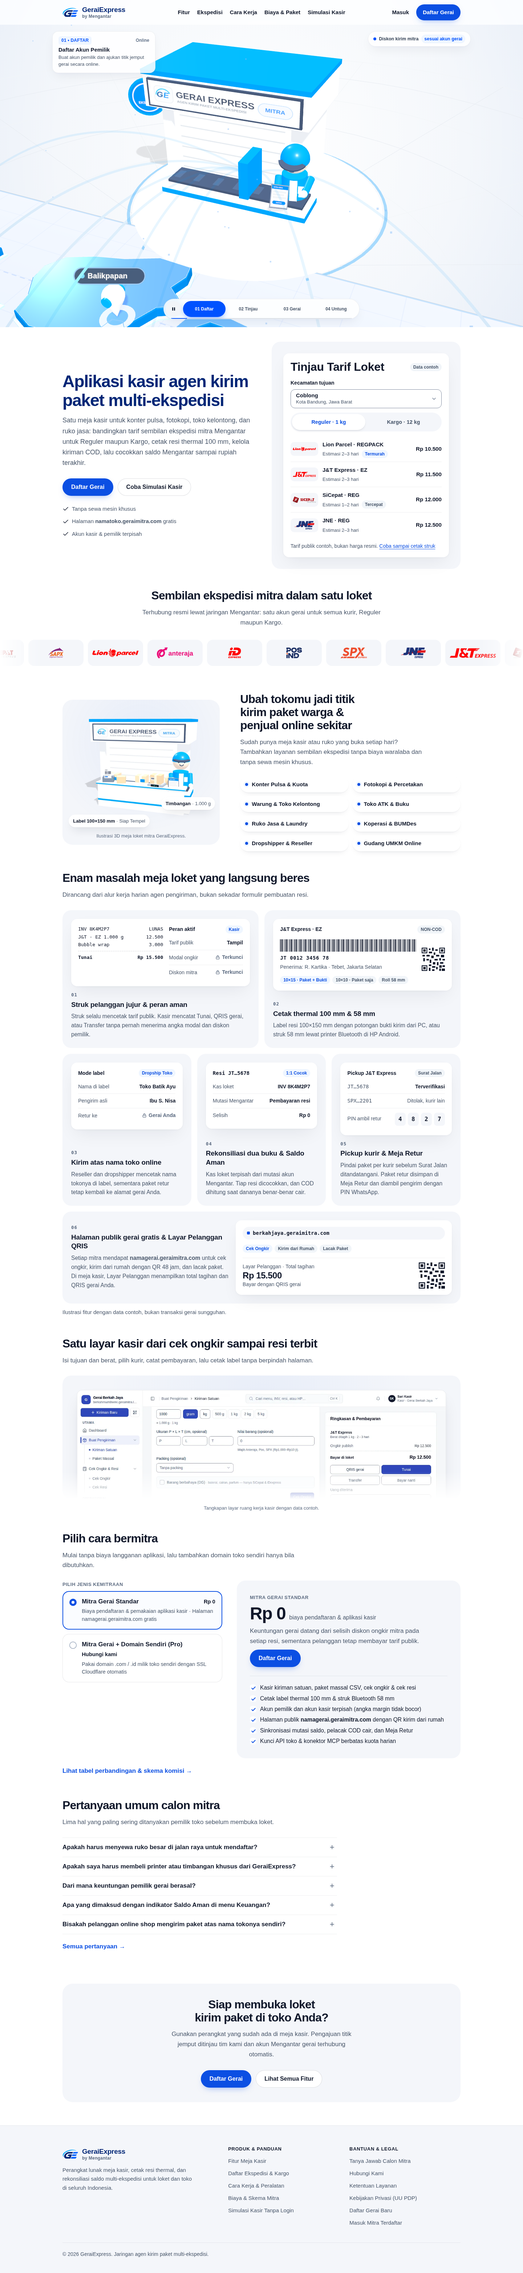
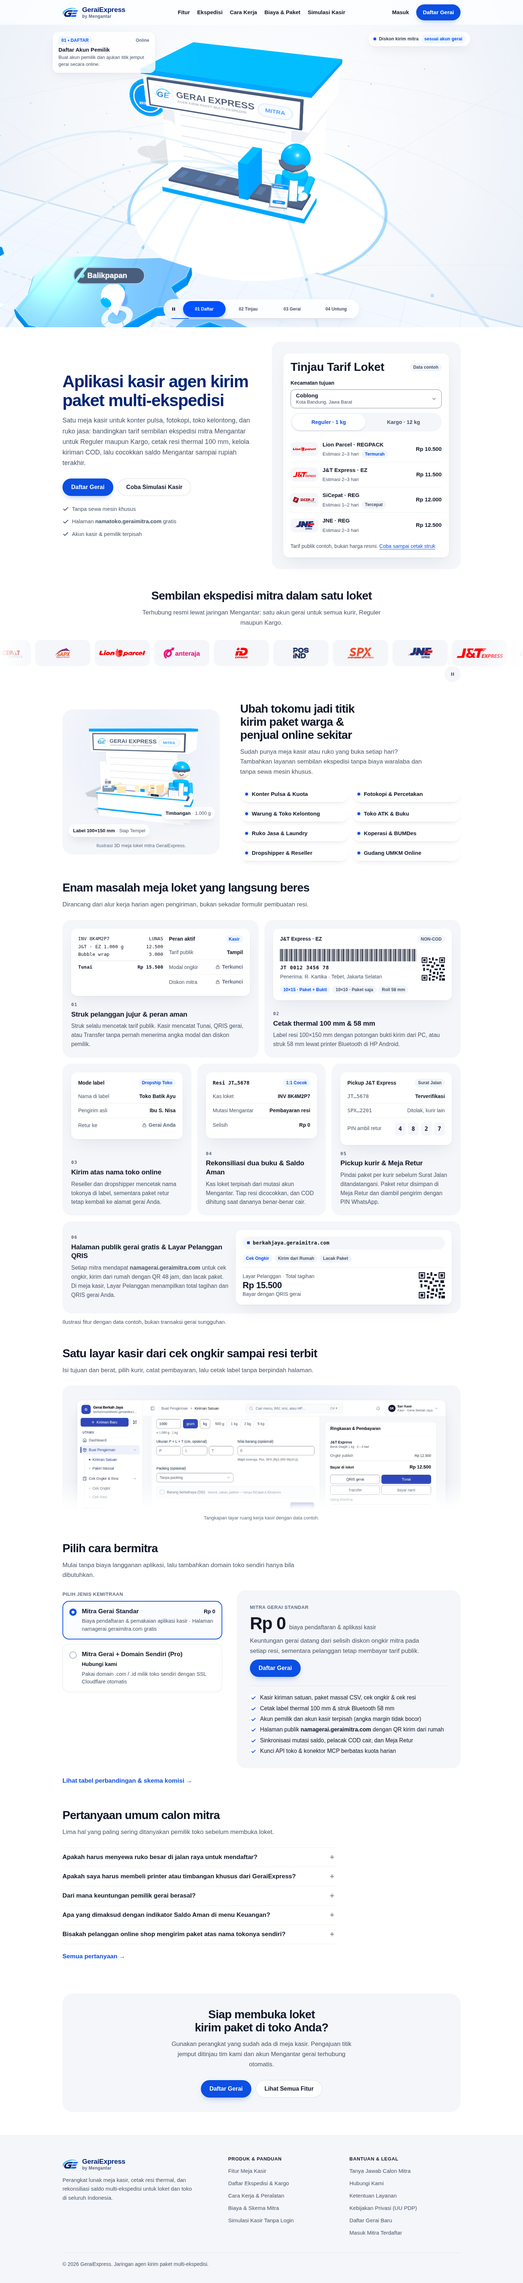
fix(brand,tooling): DEC-249 GPT-6.2 Sol R1 findings (pruner safety, marquee pause and width, finance wording)
- clean-e2e-state: only real, idle state-e2e-* directories go: lstat type guard (files and symlinks never), keep
  and active paths compared resolved, age from the newest file in the whole tree, live --persist-to folders from
  /proc protected (none where /proc is missing); Playwright skips the automatic prune under GX_REUSE_SERVER.
  Unit tests in scripts/dev/clean-e2e-state.test.mjs.
- Marquee: a 44px keyboard pause button holds data-paused until pressed again (WCAG 2.2.2), hidden under reduced
  motion; the marquee is capped at one track's width (1,476px) so wide screens never show an empty tail.
- /fitur: Saldo Aman is described as computed from the last sync, and differences as visible per resi.

Focused checks (fast protocol): check:fast, unit 6/6, worker test/brand 22/22, seo 10/10, e2e brand desktop
14/0/0; mutations D249R1-M1..M6 red. Disposition: docs/review/dec-249/DISPOSITION.md.

diff --git a/apps/worker/src/brand/pages.ts b/apps/worker/src/brand/pages.ts
@@ -124,6 +124,12 @@ export const HOME_SCRIPT = `<script defer src="/three.min.js"></script><script d
   new IntersectionObserver(function(es){es.forEach(function(x){g.classList.toggle("is-playing",x.isIntersecting)})},{threshold:.15}).observe(g);
 })();
 (function(){
+  // The courier marquee's pause button (WCAG 2.2.2): the paused state holds until pressed again, whatever has focus.
+  var b=document.querySelector(".mq-pause"),m=document.querySelector(".marquee");
+  if(!b||!m)return;
+  b.addEventListener("click",function(){var on=b.getAttribute("aria-pressed")!=="true";b.setAttribute("aria-pressed",on?"true":"false");if(on)m.setAttribute("data-paused","");else m.removeAttribute("data-paused")});
+})();
+(function(){
   // Raka's parcel, label and scan beam move only while the stage is on screen; still under reduced motion (DEC-249).
   var r=document.querySelector("[data-raka]");
   if(!r||!("IntersectionObserver" in window)||matchMedia("(prefers-reduced-motion: reduce)").matches)return;
@@ -205,6 +211,7 @@ export function renderHome(app: string): string {
 <ul class="mq-list" aria-label="Sembilan ekspedisi mitra Mengantar">${Object.keys(COURIERS).map((k) => `<li class="pbadge">${courierImg(k, 28)}</li>`).join("")}</ul>
 <ul class="mq-list" aria-hidden="true">${Object.keys(COURIERS).map((k) => `<li class="pbadge">${courierImg(k, 28, true)}</li>`).join("")}</ul>
 </div></div>
+<div class="wrap mq-ctl"><button type="button" class="mq-pause" aria-pressed="false" aria-label="Jeda animasi daftar ekspedisi"><svg width="12" height="12" viewBox="0 0 12 12" fill="currentColor" aria-hidden="true"><rect x="2" y="1.5" width="3" height="9" rx="1"/><rect x="7" y="1.5" width="3" height="9" rx="1"/></svg></button></div>
 </section>
 
 <section class="sec" aria-labelledby="toko-title"><div class="wrap raka-grid">
@@ -283,7 +290,7 @@ ${closing(app, "/fitur", "Lihat Semua Fitur")}`
 const FITUR_SHOWCASE = `<section class="sec" aria-labelledby="satu-layar-title"><div class="wrap show-grid">
 <div>
 <h2 id="satu-layar-title">Lihat jelas untung loket, saldo Mengantar, dan status tiap resi dalam satu layar</h2>
-<p class="sub">Setiap resi tunai, QRIS, maupun COD tercatat otomatis antara laci kasir dan mutasi akun seller Mengantar. Anda tahu persis berapa Saldo Aman yang siap ditarik dan paket mana yang menunggu dijemput kurir.</p>
+<p class="sub">Setiap resi tunai, QRIS, maupun COD tercatat otomatis antara laci kasir dan mutasi akun seller Mengantar. Anda melihat perhitungan Saldo Aman dari sinkronisasi terakhir setelah cadangan ongkir retur, serta paket yang menunggu dijemput kurir.</p>
 <ul class="chk">
 <li>${IC.check}<span>Kasir melihat tarif publik; modal dan margin hanya di akun Pemilik</span></li>
 <li>${IC.check}<span>Rekonsiliasi per resi antara kas loket dan mutasi Mengantar</span></li>
@@ -310,7 +317,7 @@ const FITUR_SHOWCASE = `<section class="sec" aria-labelledby="satu-layar-title">
 </div></section>
 
 <section class="sec" aria-labelledby="bukti-title"><div class="wrap">
-<div class="shead"><h2 id="bukti-title">Uang laci kasir dan saldo ekspedisi tidak lagi selisih di akhir minggu</h2><p class="sub">Dua kebiasaan loket yang paling sering memakan waktu kini dikerjakan sistem.</p></div>
+<div class="shead"><h2 id="bukti-title">Selisih antara laci kasir dan mutasi ekspedisi langsung terlihat per resi</h2><p class="sub">Dua kebiasaan loket yang paling sering memakan waktu kini dikerjakan sistem.</p></div>
 <div class="proof">
 <div class="tile"><span class="idx">01</span><h3>Dari catatan campur ke rekonsiliasi 1:1 per resi</h3><p>Catatan manual sering menyisakan selisih ongkir dan potongan COD yang belum cair. GeraiExpress mencocokkan kas loket dengan mutasi Mengantar untuk setiap nomor resi.</p>
 <div class="float rb" aria-label="Contoh perbandingan catatan manual dan rekonsiliasi per resi (data contoh)">

diff --git a/apps/worker/test/brand/brand.test.ts b/apps/worker/test/brand/brand.test.ts
@@ -245,8 +245,12 @@ describe("brand site DEC-247", () => {
     ])
     // Marquee: CSS-only, pauses on hover/focus, a static wrap under reduced motion.
     const css = /<style>([\s\S]*?)<\/style>/.exec(h)![1]!
-    expect(css).toContain(".marquee:hover .mq-track,.marquee:focus-within .mq-track{animation-play-state:paused}")
-    expect(css).toContain("@media(prefers-reduced-motion:reduce){.marquee{-webkit-mask-image:none;mask-image:none;padding:0}.mq-track{animation:none;width:auto;display:block}")
+    expect(css).toContain(".marquee:hover .mq-track,.marquee:focus-within .mq-track,.marquee[data-paused] .mq-track{animation-play-state:paused}")
+    expect(css).toContain("@media(prefers-reduced-motion:reduce){.mq-ctl{display:none}.marquee{-webkit-mask-image:none;mask-image:none;padding:0}.mq-track{animation:none;width:auto;display:block}")
+    // Sol R1: never wider than one track (no empty tail on wide screens), and a real pause control (WCAG 2.2.2).
+    expect(css).toContain(".marquee{max-width:1476px;margin:0 auto;overflow:hidden;")
+    expect(h).toContain('<button type="button" class="mq-pause" aria-pressed="false" aria-label="Jeda animasi daftar ekspedisi">')
+    expect(h).toContain('if(on)m.setAttribute("data-paused","");else m.removeAttribute("data-paused")')
     expect(css).toContain("mask-image:linear-gradient(90deg,transparent,#000 8%,#000 92%,transparent)")
     // Raka: a labelled illustration, motion only on screen and never under reduced motion.
     const raka = h.slice(h.indexOf('<section class="sec" aria-labelledby="toko-title">'), h.indexOf("</section>", h.indexOf('aria-labelledby="toko-title"')))
@@ -396,6 +400,10 @@ describe("brand site DEC-247", () => {
     for (const moved of ['<figure class="layers">', '<div class="proof">', '<table class="cmp">', 'aria-labelledby="layanan-title"', 'aria-labelledby="alat-title"']) expect(home, moved).not.toContain(moved)
     expect(h.indexOf('aria-labelledby="satu-layar-title"')).toBeGreaterThan(h.indexOf('<section class="phead"'))
     expect(h.indexOf('aria-labelledby="bukti-title"')).toBeLessThan(h.indexOf('<section class="sec tight" aria-label="Enam modul GeraiExpress">'))
+    // Sol R1 (R1-5): honest finance wording — a computed Saldo Aman from the last sync, differences visible per resi.
+    expect(h).toContain("Anda melihat perhitungan Saldo Aman dari sinkronisasi terakhir setelah cadangan ongkir retur, serta paket yang menunggu dijemput kurir.")
+    expect(h).toContain('<h2 id="bukti-title">Selisih antara laci kasir dan mutasi ekspedisi langsung terlihat per resi</h2>')
+    expect(h).not.toMatch(/tahu persis berapa Saldo Aman|tidak lagi selisih/)
     // 1. Layered product UI: faded KPI layer behind a floating table card, synthetic data labelled as such.
     expect(h).toContain('<figure class="layers">')
     expect(h).toMatch(/<div class="layer-back" aria-hidden="true">[\s\S]*Saldo Aman[\s\S]*<div class="spark">/)

diff --git a/apps/worker/src/brand/styles.ts b/apps/worker/src/brand/styles.ts
@@ -204,13 +204,16 @@ ul.rates li:last-child{border-bottom:0}
 @media(min-width:1024px){.pgrid{grid-template-columns:repeat(9,minmax(0,1fr))}}
 .pgrid-gap{margin-bottom:56px}
 /* DEC-249 home: infinite courier marquee (pauses on hover/focus, static wrap under reduced motion) */
-.marquee{overflow:hidden;padding:6px 0 18px;-webkit-mask-image:linear-gradient(90deg,transparent,#000 8%,#000 92%,transparent);mask-image:linear-gradient(90deg,transparent,#000 8%,#000 92%,transparent)}
+.marquee{max-width:1476px;margin:0 auto;overflow:hidden;padding:6px 0 18px;-webkit-mask-image:linear-gradient(90deg,transparent,#000 8%,#000 92%,transparent);mask-image:linear-gradient(90deg,transparent,#000 8%,#000 92%,transparent)}
 .mq-track{display:flex;width:max-content;animation:gx-mq 42s linear infinite}
-.marquee:hover .mq-track,.marquee:focus-within .mq-track{animation-play-state:paused}
+.marquee:hover .mq-track,.marquee:focus-within .mq-track,.marquee[data-paused] .mq-track{animation-play-state:paused}
+.mq-ctl{display:flex;justify-content:flex-end;margin-top:-18px}
+.mq-pause{display:inline-grid;place-items:center;width:44px;height:44px;border:0;border-radius:999px;background:var(--tile);color:var(--slate);cursor:pointer}
+.mq-pause:hover{color:var(--ink);background:#EBEEF4}.mq-pause[aria-pressed=true]{color:var(--action);background:var(--tint)}
 .mq-list{display:flex;gap:12px;margin:0;padding:0 12px 0 0;list-style:none}
 .mq-list .pbadge{width:152px;flex-shrink:0}
 @keyframes gx-mq{to{transform:translateX(-50%)}}
-@media(prefers-reduced-motion:reduce){.marquee{-webkit-mask-image:none;mask-image:none;padding:0}.mq-track{animation:none;width:auto;display:block}.mq-list{flex-wrap:wrap;justify-content:center;padding:0 16px}.mq-list[aria-hidden]{display:none}}
+@media(prefers-reduced-motion:reduce){.mq-ctl{display:none}.marquee{-webkit-mask-image:none;mask-image:none;padding:0}.mq-track{animation:none;width:auto;display:block}.mq-list{flex-wrap:wrap;justify-content:center;padding:0 16px}.mq-list[aria-hidden]{display:none}}
 /* DEC-249 home: Raka's 3D counter (render of the hero's own rig) on a porcelain stage + floating UI pills */
 .raka-grid{display:grid;gap:32px;align-items:center}@media(min-width:900px){.raka-grid{grid-template-columns:minmax(0,5fr) minmax(0,7fr);gap:56px}}
 .raka-stage{position:relative;margin:0;background:radial-gradient(circle at 50% 30%,rgba(11,79,227,.06),transparent 70%),var(--tile);border-radius:28px;padding:20px 16px 14px;min-width:0}

diff --git a/e2e/brand.spec.ts b/e2e/brand.spec.ts
@@ -484,6 +484,28 @@ test("Brand DEC-249: beranda ramping, marquee kurir, Raka, dan /fitur diperkaya"
   await page.locator(".marquee").hover()
   expect(await track.evaluate((el) => getComputedStyle(el).animationPlayState)).toBe("paused")
   await expect(page.locator('.mq-list[aria-hidden="true"] img[alt=""]')).toHaveCount(9)
+  // Sol R1: the pause button holds the marquee still (keyboard), whatever has focus afterwards; pressed again it runs.
+  await page.mouse.move(2, 2)
+  const pause = page.getByRole("button", { name: "Jeda animasi daftar ekspedisi" })
+  await pause.focus()
+  await page.keyboard.press("Enter")
+  await expect(pause).toHaveAttribute("aria-pressed", "true")
+  await page.keyboard.press("Tab")
+  await expect(pause).not.toBeFocused()
+  expect(await track.evaluate((el) => getComputedStyle(el).animationPlayState)).toBe("paused")
+  await pause.focus()
+  await page.keyboard.press(" ")
+  await expect(pause).toHaveAttribute("aria-pressed", "false")
+  await page.locator("h1").focus().catch(() => {})
+  await page.mouse.move(2, 2)
+  expect(await track.evaluate((el) => getComputedStyle(el).animationPlayState)).toBe("running")
+  if (info.project.name === "desktop-1280") {
+    // At 1920 the marquee is never wider than one track, so the loop never shows an empty tail.
+    await page.setViewportSize({ width: 1920, height: 900 })
+    const w = await page.evaluate(() => ({ box: document.querySelector(".marquee")!.getBoundingClientRect().width, list: document.querySelector(".mq-list")!.getBoundingClientRect().width }))
+    expect(w.box).toBeLessThanOrEqual(w.list)
+    await page.setViewportSize({ width: 1440, height: 900 })
+  }
   const raka = page.locator("[data-raka]")
   await raka.scrollIntoViewIfNeeded()
   await expect(raka).toHaveClass(/is-playing/)

diff --git a/playwright.config.ts b/playwright.config.ts
@@ -6,8 +6,9 @@ const port = Number(process.env.GX_E2E_PORT ?? 8787)
 // Fresh local state per run (rate limits and data from an earlier run must not leak into this one).
 const state = `.wrangler/state-e2e-${process.env.GX_E2E_RUN ?? Date.now().toString(36)}`
 process.env.GX_E2E_RUN ??= state.slice(-8)
-// DEC-249: drop abandoned `.wrangler/state-e2e-*` folders older than 2 h (never the current run's).
-pruneStaleE2eState({ keep: state })
+// DEC-249: drop abandoned `.wrangler/state-e2e-*` folders older than 2 h — never this run's, never one a live
+// `wrangler dev` persists to, and not at all when attaching to an existing server (GX_REUSE_SERVER).
+if (!(process.env.GX_REUSE_SERVER && process.env.GX_REUSE_SERVER !== "0")) pruneStaleE2eState({ keep: state })
 // DEC-249 fast iteration: GX_SKIP_BUILD=1 reuses the last `pnpm build` (focused runs and UI mutations boot in seconds);
 // GX_REUSE_SERVER=1 attaches to a `wrangler dev` already listening on GX_E2E_PORT.
 const buildCmd = process.env.GX_SKIP_BUILD && process.env.GX_SKIP_BUILD !== "0" ? "" : "pnpm build && "

diff --git a/STATUS.md b/STATUS.md
@@ -16,7 +16,7 @@ M1 build on branch `dev` (worktree `~/Projects/.worktrees/geraiexpress-cfv2/dev`
 | Task | State | Evidence |
 |---|---|---|
 | DEC-246 Super Admin `/akun` + recovery codes (owner directive 2026-11-18, R4) | DONE 2026-11-18 — GPT-6.1 Sol R1 REQUEST_CHANGES (2 P1 + 3 P2) all fixed with regressions + mutations R1-M1..M5, Sol R2 APPROVE on `e9ea15e` (`docs/review/dec-246/`); release run `RUN-20261118T105137Z-06b21b87` re-executed check, migrations and owner e2e (the first run `RUN-20261118T100235Z-2224a130` closed BLOCKED: HEAD moved); LIVE 2026-11-18: control `0019` applied on staging + production D1, Workers staging `6bfb94c4-3300-4575-8d19-8eeee5677604` and production `c8285eb3-be44-4939-8c1b-285686540e04` (from `5901a9d`), `owner.geraiexpress.com/{masuk,akun,totp}` 200, `/api/owner/account` 401 without a session, probes 5/6 (relay 526 → TASK-601); then fast-forward, control `0019` on staging + production and deploy | control `0019_super_admin_recovery_codes` + Drizzle (drift test green); `auth/recovery` (8 single-use `XXXX-XXXX` codes, peppered hash only, atomic consume, 10-min AES-GCM rotation ticket); owner routes `POST /auth/totp/recovery` (shared TOTP lock), `GET/POST /account*` (profile, password, email, recovery-codes, totp rotate-start/confirm, sessions); first confirmed enrolment returns the first set; another admin's reset deletes the codes; `resetTotp` returns a rotation ticket instead of `pending` (password-alone enrolment window closed — recorded in DEC-246); web-owner `/akun` (account menu `Profil Saya`, ⌘K, breadcrumb) and `/totp` recovery + new-authenticator + one-time codes screens. Evidence: `test/auth/super-admin-account.test.ts` 14/14 (auth + migrations 60/60); mutations D246-M1..M6 each red (`docs/evidence/DEC-246/mutations.md`); e2e owner specs 11 passed (super-admin incl. DEC-246 flow, onboarding, admin-shell); UI gates `/akun` + `/totp` 0 fail 0 warn, geometry exit 0, screenshots 1440/390 with 0 overflow and 0 console errors (`docs/evidence/DEC-246/`); `pnpm check` exit 0 (unit 180, Workers 428 in 62 files, bundle-audit PASS); ledger `RUN-20261118T100235Z-2224a130` (declared R4): check, migrations, e2e PASS, boundary REVIEW_REQUIRED (effective R4, independent review) — the run stays open until the Sol review. Polish (DEC-246 (6), owner same day): console account menu without `Situs Utama GeraiExpress`, frameless `ShellBrand` logo (`h-7`, collapsed `h-5`); owner e2e 11 passed (`admin-shell` now asserts `Profil Saya` and no site link), UI gates `/akun`, `/totp`, `/` 0 fail 0 warn, `pnpm check` re-run (see BUILD-LOG). |
-| DEC-249 Slim home + Raka storefront + courier marquee + geometric logo + dev velocity (owner 2026-11-19, R2 declared, R3 effective per the ledger boundary: test and build tooling) | IMPLEMENTED 2026-11-19 on branch `dec-249` — focused checks green; awaiting supervisor screenshot review, then the single final gate and deploy (no migration) | Home 10,027 → 6,253 px at 1440 (≤ 6,300; hero byte-identical, hash-tested); courier marquee; Raka section as a 3D render of the hero rig (`/loket-mitra-3d.webp`, 33 KB) + eight store types; showcase + proof band moved to `/fitur` (5,820 px); geometric `GE` logo 792 B and favicons (983 / 892 B); `check:fast`, `GX_SKIP_BUILD`, `GX_REUSE_SERVER`, `GX_VITEST_WORKERS`, `clean:e2e-state`; SYSTEM-MAP + WORKFLOW refreshed. Evidence: `docs/evidence/DEC-249/`. |
+| DEC-249 Slim home + Raka storefront + courier marquee + geometric logo + dev velocity (owner 2026-11-19, R2 declared, R3 effective per the ledger boundary: test and build tooling) | IMPLEMENTED 2026-11-19 on branch `dec-249` — supervisor pre-review applied; GPT-6.2 Sol R1 five findings fixed (`docs/review/dec-249/DISPOSITION.md`); awaiting Sol R2, then the single final gate and deploy (no migration) | Home 10,027 → 6,279 px at 1440 (≤ 6,300; hero byte-identical, hash-tested); courier marquee; Raka section as a 3D render of the hero rig (`/loket-mitra-3d.webp`, 33 KB) + eight store types; showcase + proof band moved to `/fitur` (5,820 px); geometric `GE` logo 792 B and favicons (983 / 892 B); `check:fast`, `GX_SKIP_BUILD`, `GX_REUSE_SERVER`, `GX_VITEST_WORKERS`, `clean:e2e-state`; SYSTEM-MAP + WORKFLOW refreshed. Evidence: `docs/evidence/DEC-249/`. |
 | DEC-248 Quiet brand closing + minimalist auth stage + `1 · 2 · 3` register (owner 2026-11-19, R2 declared, R3 effective per the ledger boundary) | DONE 2026-11-19 — GPT-6.2 Sol R3 APPROVE on `c59e509` + LIVE (Workers staging `60497461`, production `c7fb0d25`; probes 6/6). History: Sol R1 REQUEST_CHANGES (2 P1 + 2 P2) fixed (`docs/review/dec-248/DISPOSITION.md`, run `RUN-20261118T201033Z-f0ad5e98`), then supervisor pre-review and Sol R2 combobox items fixed; Sol R3 APPROVE | Brand closing without the three-step pills; one auth stage for both SPAs: white viewport, no footer, no page scroll, brand escape + contextual switch, frameless centred form, password `Lihat`/`Sembunyikan`; register `1 · Akun — 2 · Gerai — 3 · Titik Jemput` (summary folded into Tahap 3, payload unchanged). Evidence: run `RUN-20261118T193629Z-7980f3f5`; e2e `auth-stage` asserts 0 footer + no page/inner scroll at 1440×900, 1366×768, 390×844; dotuiux + admin-geometry (desk contract) 0 fail on app/owner `/masuk` and `/daftar-akun`; mutations D248-M1..M5 red; screenshots `docs/evidence/DEC-248/`. |
 | DEC-247B Brand inner pages, mini-site owner rules, courier logos, Indonesian validation (owner 2026-11-18/19, R3 declared, R4 effective per the ledger boundary: GeraiVaultDO mini-site code) | DONE 2026-11-19 — GPT-6.2 Sol R4 APPROVE on `3c424be` (release run `RUN-20261118T191916Z-38f6cb8b`) + LIVE (Workers staging `ed5a44e6`, production `2ffcc646`; probes 6/6). History: Sol R1 REQUEST_CHANGES (3 P1 + 5 P2) fixed (`docs/review/dec-247b/DISPOSITION.md`, run `RUN-20261118T182730Z-48cf174c`); Sol R2 6/8 resolved, its two remaining items fixed (run `RUN-20261118T185551Z-7ca80cd6`); Sol R3 two P2 dimension items fixed (run `RUN-20261118T190535Z-ceaa4c6e`), approved by Sol R4, then deploy (no D1 or tenant migration) | Nine brand inner pages on the `adsbook.id` inner-page architecture (centered PageHead with dot grid + eyebrow pill; `/fitur` six pillar rows + capability list; `/cara-kerja` jump strip, five role rows, motion-guarded pipeline; `/tanya-jawab` four 4fr/8fr groups with a pill index; `/hubungi-kami` two porcelain panels); `/simulasi-kasir` with zero native `<select>` (four keyboard-operable listboxes); compact footer rhythm (28px text links, two columns on phones); mini-site header without WhatsApp (WhatsApp in the Lokasi & Jam Buka card and the phone menu), footer attribution only on `*.${TENANT_ZONE}`, Indonesian validation on the public forms; nine courier logos + official tracking links across `/kasir`, `/kasir/cek-cepat`, `/kasir/layar-pelanggan`, `/pengaturan/ekspedisi`, `/kasir/cek-resi`; Indonesian validation in both SPAs. Evidence: run `RUN-20261118T173341Z-a3993452`: check-page 10/10 0 fail 0 warn, unit 210, Workers 467, isolation 77, e2e 81/0/0 (brand, minisite, courier-logos + quote, checkout, customer-display, settings, pos-guards, bulk; 9 viewport skips), `pnpm check` PASS; mutations T247B-M1..M7, MS-M1..M10 + MS-E1..E4, app M1..M5 red; screenshots + UI gates in `docs/evidence/DEC-247B/`. |
 | DEC-247A Borderless white-gallery brand site (owner 2026-11-18, R2 declared, R3 effective per the ledger boundary) | DONE 2026-11-18 + LIVE (Workers staging `8b462e39`, production `a14187ab`; probes 6/6) — GPT-6.1 Sol R1 APPROVE on `d0fda4b` (`docs/review/dec-247a/`; non-blocking labelling note applied), release run `RUN-20261118T163352Z-76a6989f`; live rollout in BUILD-LOG (Release B — mini-site, courier logos, Indonesian validation in the apps — preserved in worktree `dec-247b`) | 10 SSR pages on `geraiexpress.com`: white `#FFFFFF` gallery + one `#F4F6FA` borderless surface, one header with the `[Masuk][menu]` mobile dropdown (3D 100svh hero kept), 12-col bento 01–06, soft-pedestal POS WebP (taken as Kasir), home parity with `adsbook.id` (layered showcase, proof band 01/02, pricing radios + open comparison, five hairline FAQ, closing with three numbered steps), `/biaya-dan-paket` asymmetric pricing, `/tanya-jawab` open accordion, porcelain closing + footer, inline Indonesian validation. Evidence: run `RUN-20261118T144047Z-5591b2d9`: check-page 10/10 0 fail 0 warn, unit 195, Workers 453, e2e brand 29/0/0 (+7 viewport skips), `pnpm check` PASS; dotuiux 0 fail on `/`, `/biaya-dan-paket`, `/tanya-jawab` (agent run); mutations M1–M5 (agent) + T247A-M1..M4 red; screenshots `docs/evidence/DEC-247/brand-*` (0 overflow, 0 console errors). |

diff --git a/docs/review/dec-249/R1-sol.md b/docs/review/dec-249/R1-sol.md
@@ -1,0 +1,15 @@
+## Review
+
+Read-only review of DEC-249 (`70cc133..be3de62`) against the supplied diff and UI/UX brief. No files were modified and no tests or cleanup commands were run.
+
+- **Finding: P1 — Cleanup can delete entries that are not stale e2e directories.** `scripts/dev/clean-e2e-state.mjs:16` filters only by name, and `scripts/dev/clean-e2e-state.mjs:21` uses `statSync` and then removes the entry without checking its type. An old regular file named `state-e2e-*` is deleted, and a symlink is aged using its target’s timestamp. The `keep` comparison at `scripts/dev/clean-e2e-state.mjs:19` also misses an absolute spelling of the same relative path. Restrict candidates to real directories using `lstatSync`, resolve both paths before comparing, and test that files, symlinks, `keep`, and `.wrangler/state-dev` survive.
+- **Finding: P1 — Automatic pruning can delete state belonging to a running server.** `playwright.config.ts:10` prunes before Playwright decides whether to reuse the server and protects only the newly computed state path. `scripts/dev/clean-e2e-state.mjs:21` checks the top-level directory’s mtime; SQLite writes below `v3/d1` and `v3/do` do not refresh it. A server running against that folder for over two hours can lose its state when a new run starts. Track active state explicitly and skip it in both automatic and manual cleanup; do not auto-prune when attaching to a server whose state path is unknown.
+- **Finding: P1 — The marquee’s focus pause is not keyboard-operable.** `apps/worker/src/brand/styles.ts:209` defines `:focus-within`, but `apps/worker/src/brand/pages.ts:204` renders only non-interactive lists and images. The infinite motion has no persistent pause control for keyboard or touch users, and `e2e/brand.spec.ts:484` only exercises hover. Add a visible, keyboard-operable pause/resume button and test that motion stays paused after focus leaves. Keep the hover and reduced-motion behavior.
+- **Finding: P2 — The marquee loop leaves a blank tail on wide screens.** Each list is 1,476 px wide, but the clipping viewport is unconstrained (`apps/worker/src/brand/styles.ts:207`, `apps/worker/src/brand/styles.ts:210`). At a 1,920 px viewport, the final 444 px are empty just before the animation resets. Cap the centered viewport at one list width or use a static layout above that width.
+- **Finding: P2 — The showcase newly published on `/fitur` overstates financial certainty.** `apps/worker/src/brand/pages.ts:286` promises an exact amount ready to withdraw, and `apps/worker/src/brand/pages.ts:313` promises discrepancies go away. The finance read model calculates Saldo Aman from a synced balance minus reserves and explicitly returns unresolved discrepancies (`apps/worker/src/do/gerai-vault/finance/view.ts:60`, `apps/worker/src/do/gerai-vault/finance/view.ts:85`). Describe the feature as showing the last synced balance after reserves and helping gerai identify discrepancies, not guaranteeing withdrawals or matching books.
+
+**Correct:** With the fast flags unset, `pnpm check` retains all stages and `pnpm e2e` still builds, applies local migrations, starts its own server, and runs all three projects. The Vitest cap changes concurrency, not test selection. The diff leaves the hero markup, `100svh` rule, and script references unchanged; the Worker test pins the markup SHA-256, and the recorded targeted run passed. The storefront WebP is allowlisted and accurately labelled as an illustration. The geometric SVGs contain no scripts or external references. The duplicate courier list has `aria-hidden="true"` and empty alts, and reduced motion renders one static wrapping list.
+
+**Merge verdict: BLOCK**
+
+Verdict: REQUEST_CHANGES

diff --git a/docs/review/dec-249/DISPOSITION.md b/docs/review/dec-249/DISPOSITION.md
@@ -1,0 +1,18 @@
+# DEC-249 — disposition of GPT-6.2 Sol R1 (`R1-sol.md`)
+
+Sol approved the hero lock, `/loket-mitra-3d.webp`, the geometric SVGs and the Vitest/Playwright flags. The five
+findings were fixed in run `RUN-20261118T221923Z-14db5701` with focused checks (fast protocol): `pnpm check:fast`,
+`vitest --project unit scripts/dev/clean-e2e-state.test.mjs` 6/6, `vitest run test/brand` 22/22, `check-page.mjs`
+10/10 0 fail 0 warn, e2e `brand.spec.ts --project desktop-1280` 14/0/0.
+
+| # | Finding | Fix | Regression | Mutation (red) |
+|---|---|---|---|---|
+| R1-1 | The pruner could delete files/symlinks named `state-e2e-*`, and compared `keep` as raw strings | `lstatSync`: only a real directory (`isDirectory() && !isSymbolicLink()`) is a candidate. `keep` (string or list) and the active paths are compared with `path.resolve` on both sides. | `scripts/dev/clean-e2e-state.test.mjs`: an old regular file and an old symlink (`lutimesSync`) to an old folder survive; a relative and an absolute `keep` survive; `.wrangler/state-dev` survives | D249R1-M1 (type guard removed), D249R1-M2 (`keep` not resolved) |
+| R1-2 | The age came from the folder's own mtime, and a live server's folder could be removed | `newestMtime(dir)` walks the whole tree without following symlinks, so a fresh SQLite file under `v3/d1` keeps the folder. `activePersistPaths()` reads `/proc/*/cmdline` for `--persist-to <dir>` and `--persist-to=<dir>`, resolved against `/proc/<pid>/cwd`, and returns `[]` where `/proc` is missing. Those folders are never removed, by the automatic or the manual prune. `playwright.config.ts` skips the automatic prune under `GX_REUSE_SERVER`. | Tests: a fresh WAL deep inside keeps an old folder; a folder in `activePaths` survives; both `--persist-to` forms parsed from a `/proc`-like tree, resolved against the process cwd; a missing `/proc` gives `[]` | D249R1-M3 (folder mtime only), D249R1-M4 (active paths ignored) |
+| R1-3 | No way to stop the marquee without hovering or focusing it (WCAG 2.2.2) | A 44px `<button class="mq-pause" aria-pressed>` (`Jeda animasi daftar ekspedisi`) sets `data-paused` on `.marquee`, so the track stays paused until the button is pressed again, wherever focus goes. The button is hidden under reduced motion, where the marquee is already static. | e2e: Enter pauses, Tab moves focus away and it stays `paused`, Space resumes (`running`); worker CSS/markup assertions | D249R1-M5 (`data-paused` not honoured) |
+| R1-4 | An empty tail on wide screens | `.marquee{max-width:1476px;margin:0 auto}`, one track's width (9 × 152 px tiles + gaps) | e2e at 1920×900: marquee width ≤ one track | D249R1-M6 (width uncapped) |
+| R1-5 | Finance wording promised more than the system knows | `/fitur`: "Anda melihat perhitungan Saldo Aman dari sinkronisasi terakhir setelah cadangan ongkir retur, serta paket yang menunggu dijemput kurir."; "Selisih antara laci kasir dan mutasi ekspedisi langsung terlihat per resi" | `brand.test.ts`: new sentences present, old ones absent | — (copy) |
+
+Home height after the pause button: 6,279 px at 1440 (≤ 6,300). Note: the first run of D249R1-M1 survived because the
+test's symlink was new and failed the age check anyway. The test now ages the link and its target, so only the type
+guard keeps them, and M1 goes red.

diff --git a/docs/evidence/DEC-249/mutations.md b/docs/evidence/DEC-249/mutations.md
@@ -17,3 +17,14 @@ Each mutation was applied, `vitest run test/brand` was run, and the file was res
 |---|---|---|---|
 | D249-M6 | `apps/worker/src/brand/index.ts` | `/loket-mitra-3d.webp` dropped from `BRAND_ASSETS` | exit 1 — "DEC-249 home …" (asset 404) |
 | D249-M7 | `apps/worker/src/brand/styles.ts` | pricing feature list hidden on the home page again | exit 1 — "DEC-249 home …" |
+
+## Sol R1 fixes (run `RUN-20261118T221923Z-14db5701`)
+
+| Id | File | Mutation | Suite | Result |
+|---|---|---|---|---|
+| D249R1-M1 | `scripts/dev/clean-e2e-state.mjs` | files and symlinks are pruned too | unit `clean-e2e-state.test.mjs` | exit 1 — "never removes a regular file or a symlink…" |
+| D249R1-M2 | `scripts/dev/clean-e2e-state.mjs` | `keep` compared without resolving | unit | exit 1 — "keeps the current run's folder whether `keep` is relative or absolute" |
+| D249R1-M3 | `scripts/dev/clean-e2e-state.mjs` | age from the folder itself only | unit | exit 1 — "an old folder with a fresh file deep inside…" |
+| D249R1-M4 | `scripts/dev/clean-e2e-state.mjs` | live `--persist-to` folders not protected | unit | exit 1 — "a folder a live process persists to is never removed" |
+| D249R1-M5 | `apps/worker/src/brand/styles.ts` | pause state not honoured by CSS | `vitest run test/brand` | exit 1 — "DEC-249 home …" |
+| D249R1-M6 | `apps/worker/src/brand/styles.ts` | marquee width uncapped | `vitest run test/brand` | exit 1 — "DEC-249 home …" |

diff --git a/BUILD-LOG.md b/BUILD-LOG.md
@@ -1230,4 +1230,10 @@ Durable implementation changes, validation evidence and gotchas for the next mai
   feature list again (tight list): the home is 6,253 px at 1440, and the bound was raised to ≤ 6,300 as the supervisor
   allowed. Mutations D249-M6..M7 red. Note: raising `lookAt.x` moves the subject left on screen; the framing was
   corrected once.
+- Sol R1 (5 findings) fixed in run `RUN-20261118T221923Z-14db5701` (`docs/review/dec-249/DISPOSITION.md`). The e2e state
+  pruner only removes real, idle, unprotected `state-e2e-*` directories: an `lstat` type guard, resolved `keep`, the
+  newest mtime over the whole tree, and live `--persist-to` paths from `/proc`; it skips the automatic run under
+  `GX_REUSE_SERVER`; unit tests added. The marquee gets a keyboard pause button that holds `data-paused`, and a
+  1,476 px cap so wide screens never show an empty tail. The `/fitur` finance wording is honest. Home 6,279 px.
+  Mutations D249R1-M1..M6 red.
 
